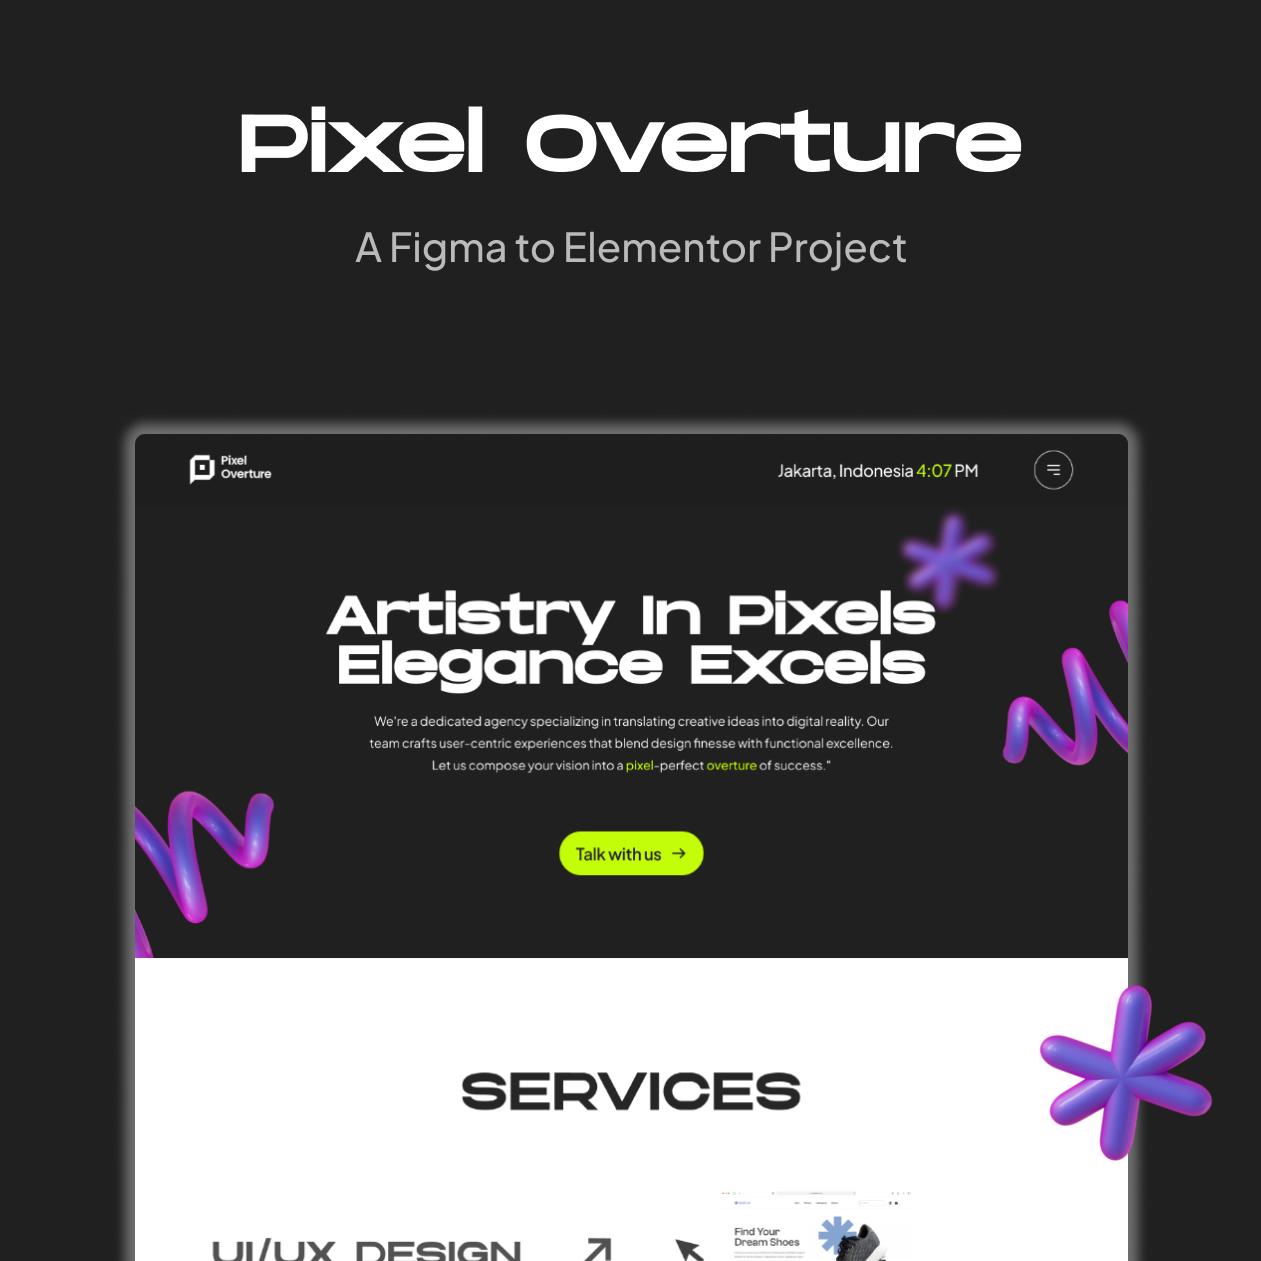
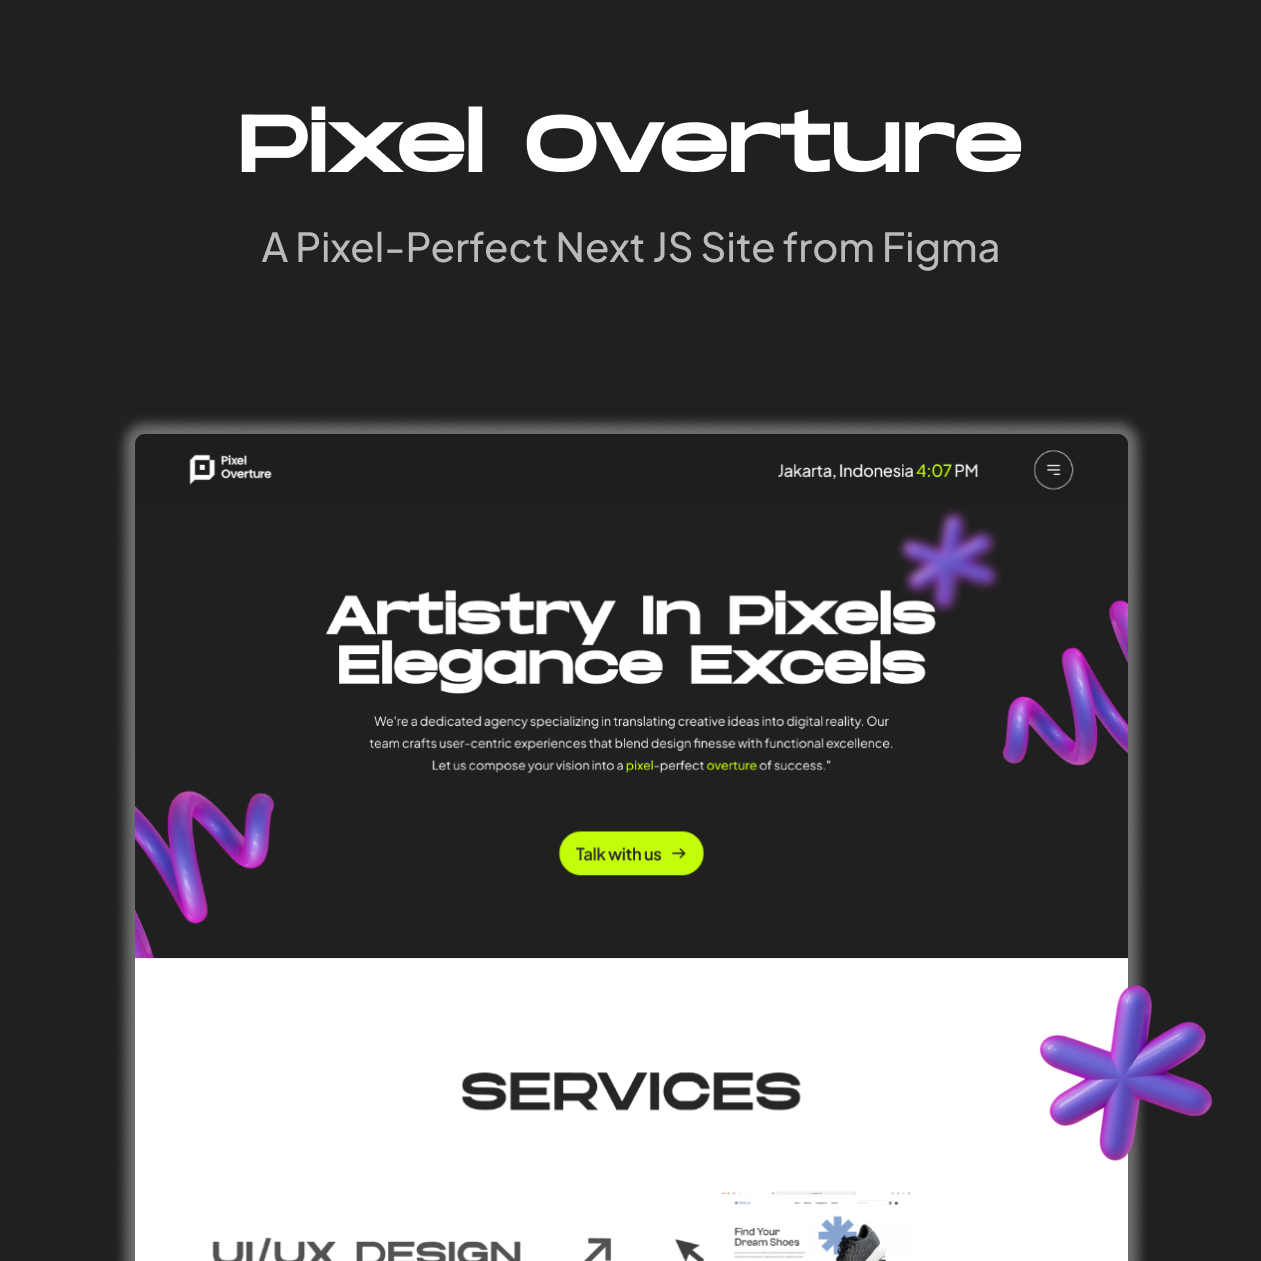
update: add new projects

Changed region(s): [[0.2165, 0.1856, 0.8041, 0.2165]]

diff --git a/datas/portfolioDatas.js b/datas/portfolioDatas.js
@@ -1,5 +1,17 @@
 const reactProjectDatas = [
   {
+    title: "Next Shop",
+    slug: "next-shop",
+    imageCover: '/next-shop.png',
+    projectURL: "https://next-shop-flax-one.vercel.app/",
+    description: [
+      "A Fullstack React Next JS, Firebase & Midtrans Payment Gateway Eshop",
+      "The cart is built using Zustand and the data is processed on the backend. So its safe from client-side manipulation!",
+      "Its currently on progress. Stay Tuned! ^^",
+    ],
+    techUsed: ["React", "Next JS", "Tailwind CSS", "Zustand", "Next Auth", "Firebase", "Midtrans"],
+  },
+  {
     title: "Pixel Overture",
     slug: "pixel-overture",
     imageCover: '/pixel-overture.png',
@@ -9,11 +21,23 @@ const reactProjectDatas = [
     description: [
       "A pixel-perfect conversion from Figma w/ Next JS & Tailwind",
     ],
-    techUsed: ["React", "Next JS", "Tailwind CSS", "CVA", "Tailwind Merge"],
+    techUsed: ["React", "Next JS", "Tailwind CSS", "Framer Motion", "CVA", "Tailwind Merge"],
     techExplanation: [
       "Site is built using Next JS and Tailwind CSS",
       "The clock on header is built using Moment JS and Custom React Hooks (yep, it really shows the correct time 😃)",
     ],
+  },
+  {
+    title: "Omahku Landing Page",
+    slug: "omahku-landing-page",
+    imageCover: '/omahku.png',
+    projectURL: "https://omahku-landingpage.vercel.app/",
+    figmaEmbedURL:
+    "https://www.figma.com/embed?embed_host=share&url=https%3A%2F%2Fwww.figma.com%2Ffile%2FKWpmfGnVQKIntNzZ0RhcMF%2FOmahku%3Ftype%3Ddesign%26mode%3Ddesign%26t%3DQy1F6YpDu3Dvoex3-1",
+    description: [
+      "A pixel-perfect conversion from Figma w/ Next JS, Tailwind & Shadcn UI",
+    ],
+    techUsed: ["React", "Next JS", "Tailwind CSS", "Shadcn UI"],
   },
   {
     title: "Windbnb",
